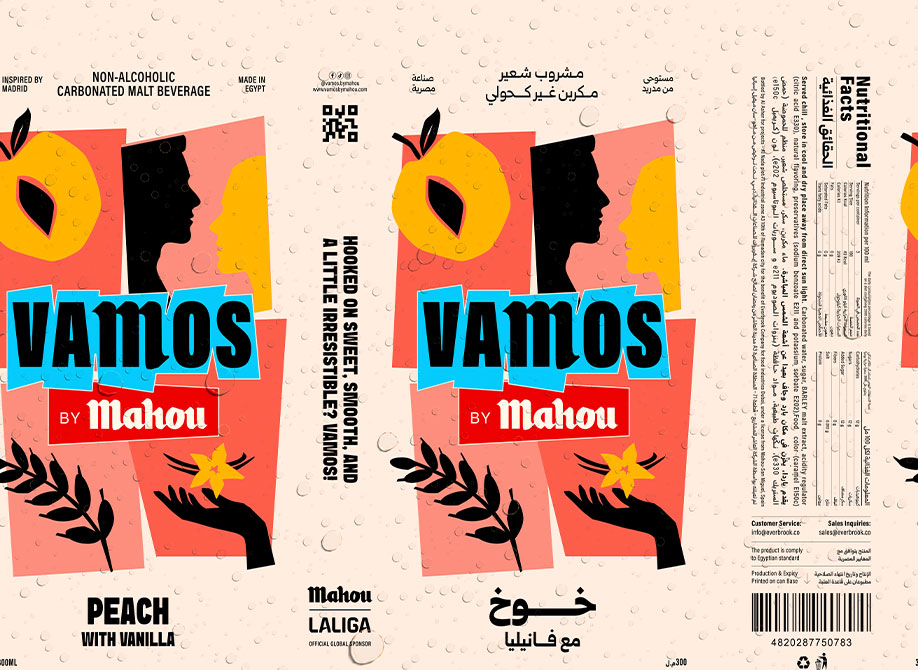
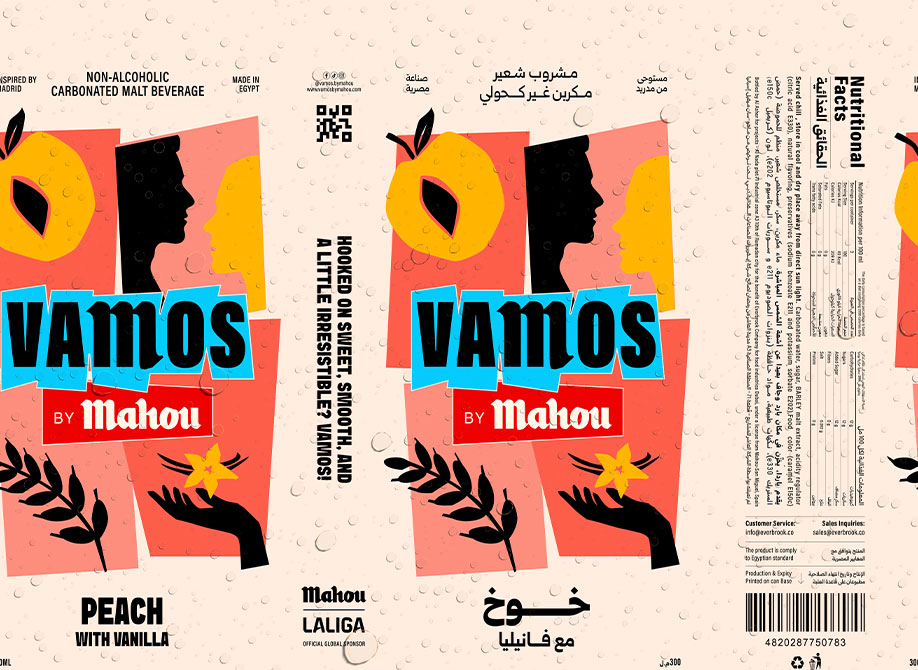
omer presentation 18 nov

diff --git a/index.html b/index.html
@@ -59,7 +59,7 @@
             <div class="hero-shape"></div>
             <div class="hero-animation">
               <div class="hero-product-box">
-                <div class="product-img animated-products animated-products-left">
+                <div class="product-img animated-products">
                   <img src="images/can-mask.png" class="mw-100" alt="">
                   <div class="product-labels">
                     <img src="images/peach-label.jpg" alt="">
@@ -68,7 +68,7 @@
                 </div>
               </div>
               <div class="hero-product-box">
-                <div class="product-img animated-products animated-products-left">
+                <div class="product-img animated-products">
                   <img src="images/can-mask.png" class="mw-100" alt="">
                   <div class="product-labels">
                     <img src="images/malt-label.jpg" alt="">
@@ -77,7 +77,7 @@
                 </div>
               </div>
               <div class="hero-product-box">
-                <div class="product-img animated-products animated-products-right">
+                <div class="product-img animated-products">
                   <img src="images/can-mask.png" class="mw-100" alt="">
                   <div class="product-labels">
                     <img src="images/pinapple-label.jpg" alt="">
@@ -86,7 +86,7 @@
                 </div>
               </div>
               <div class="hero-product-box">
-                <div class="product-img animated-products animated-products-right">
+                <div class="product-img animated-products">
                   <img src="images/can-mask.png" class="mw-100" alt="">
                   <div class="product-labels">
                     <img src="images/apple-label.jpg" alt="">
@@ -130,7 +130,7 @@
             <div class="product-box" style="background-image:url(images/peach-bg.png);">
               <div class="product-name">Peach <span>with Vanilla</span></div>
               <div class="product-img animated-products">
-                <img src="images/can-mask-pc.png" class="mw-100" alt="">
+                <img src="images/can-mask.png" class="mw-100" alt="">
                 <div class="product-labels">
                   <img src="images/peach-label.jpg" alt="">
                   <img src="images/peach-label.jpg" alt="">
@@ -143,7 +143,7 @@
             <div class="product-box" style="background-image:url(images/malt-bg.png);">
               <div class="product-name">Toasted <span>Malt</span></div>
               <div class="product-img animated-products">
-                <img src="images/can-mask-pc.png" class="mw-100" alt="">
+                <img src="images/can-mask.png" class="mw-100" alt="">
                 <div class="product-labels">
                   <img src="images/malt-label.jpg" alt="">
                   <img src="images/malt-label.jpg" alt="">
@@ -156,7 +156,7 @@
             <div class="product-box" style="background-image:url(images/pinapple-bg.png);">
               <div class="product-name">Pineapple <span>with caramel</span></div>
               <div class="product-img animated-products">
-                <img src="images/can-mask-pc.png" class="mw-100" alt="">
+                <img src="images/can-mask.png" class="mw-100" alt="">
                 <div class="product-labels">
                   <img src="images/pinapple-label.jpg" alt="">
                   <img src="images/pinapple-label.jpg" alt="">
@@ -169,7 +169,7 @@
             <div class="product-box" style="background-image:url(images/apple-bg.png);">
               <div class="product-name">Apple <span>with Cinnamon</span></div>
               <div class="product-img animated-products">
-                <img src="images/can-mask-pc.png" class="mw-100" alt="">
+                <img src="images/can-mask.png" class="mw-100" alt="">
                 <div class="product-labels">
                   <img src="images/apple-label.jpg" alt="">
                   <img src="images/apple-label.jpg" alt="">
@@ -237,165 +237,137 @@
 <script src="https://cdn.jsdelivr.net/npm/gsap@3.13.0/dist/gsap.min.js"></script>
 <script src="https://cdn.jsdelivr.net/npm/gsap@3.13.0/dist/ScrollTrigger.min.js"></script>
 <script src="https://cdn.jsdelivr.net/npm/gsap@3.13.0/dist/SplitText.min.js"></script>
+
 <script>
-  document.addEventListener("DOMContentLoaded", (event) => {
-    gsap.registerPlugin(SplitText)
-    let split = SplitText.create(".hero-title", {
-      type:"words"
+  // 🔹 Stop the browser from restoring scroll position after refresh
+  if ('scrollRestoration' in history) {
+    history.scrollRestoration = 'manual';
+    // If you want to FORCE always starting at the top after full reload,
+    // uncomment the next line:
+    // window.scrollTo(0, 0);
+  }
+
+  // 🔹 SplitText hero title animation
+  document.addEventListener("DOMContentLoaded", () => {
+    gsap.registerPlugin(SplitText);
+
+    const split = SplitText.create(".hero-title", {
+      type: "words"
     });
+
     gsap.from(split.words, {
-      opacity:0,
-      y:20,
-      stagger:0.05,
-      ease:"back.out(1.7)",
+      opacity: 0,
+      y: 20,
+      stagger: 0.05,
+      ease: "back.out(1.7)"
     });
   });
-</script>
-<!-- <script>
-  document.addEventListener("DOMContentLoaded", (event) => {
-    gsap.registerPlugin(ScrollTrigger)
-    let hero = document.querySelector(".hero");
-    let viewportWidth = window.innerWidth;
 
-    let tl = gsap.timeline({
+  // 🔹 Hero product boxes ScrollTrigger animation
+  document.addEventListener("DOMContentLoaded", () => {
+    gsap.registerPlugin(ScrollTrigger);
+
+    const boxes = gsap.utils.toArray(".hero-product-box");
+    if (!boxes.length) return;
+
+    // --- Edge-aligned layout for 40% width ---
+    const stateLeft = {
+      left: "0%",
+      scale: 1,
+      zIndex: 1,
+      rotationY: 12,
+      opacity: 1,
+      filter: "brightness(.9)"
+    };
+
+    const stateCenter = {
+      left: "30%",
+      scale: 1.1,
+      zIndex: 50,
+      rotationY: 0,
+      opacity: 1,
+      filter: "brightness(1.1)"
+    };
+
+    const stateRight = {
+      left: "60%",
+      scale: 1,
+      zIndex: 2,
+      rotationY: -12,
+      opacity: 1,
+      filter: "brightness(.9)"
+    };
+
+    const stateBack = {
+      left: "30%",
+      scale: 0.7,
+      zIndex: 0,
+      rotationY: 0,
+      opacity: 1,
+      filter: "brightness(.6)"
+    };
+
+    // Initial order
+    gsap.set(boxes[0], stateLeft);
+    gsap.set(boxes[1], stateCenter);
+    gsap.set(boxes[2], stateRight);
+    gsap.set(boxes[3], stateBack);
+
+    // Timeline setup
+    const tl = gsap.timeline({
       scrollTrigger: {
-        trigger: hero,
+        trigger: ".hero",
         start: "top top",
-        end:  () => window.innerHeight * .8 + " 20%",
+        // Use a function so this recomputes on refresh/resize
+        end: () => "+=" + (window.innerHeight * 3),
         scrub: true,
         pin: true,
-        toggleActions: "play none none none",
+        invalidateOnRefresh: true,
         // markers: true
       }
     });
 
-    tl.to(".animated-products-left, .animated-products-right", {
-      duration:300,
-      x: (i, el) => el.classList.contains("animated-products-left") ? -window.innerWidth * .5 : window.innerWidth * .5,
-      stagger:0.2,
-      ease:"power4.out",
-    });
-    tl.to(".animated-products-left .product-labels",{
-      duration:300,
-      x: -viewportWidth*.42,
-      stagger:0.2,
-      ease:"power4.out",
-    },0);
-    tl.to(".animated-products-right .product-labels",{
-      duration:300,
-      x: viewportWidth*.37,
-      stagger:0.2,
-      ease:"power4.out",
-    },0);
-    tl.to(".div1, .div2",{
-      duration:50,
-      opacity:0,
-      y:-30,// > 768 ? -400 : 0
-      stagger:0.2,
-      ease:"power4.out",
-    },0);
-  });
+    // Rotation order: [left, center, right, back]
+    let order = [0, 1, 2, 3];
 
-</script> -->
-<script>
-document.addEventListener("DOMContentLoaded", () => {
-  gsap.registerPlugin(ScrollTrigger);
+    // Each can moves through all positions
+    for (let i = 0; i < 3; i++) {
+      tl
+        .to(boxes[order[1]], { ...stateLeft, duration: 1, ease: "none" })
+        .to(boxes[order[2]], { ...stateCenter, duration: 1, ease: "none" }, "<")
+        .to(boxes[order[0]], { ...stateBack, duration: 1, ease: "none" }, "<")
+        .to(boxes[order[3]], { ...stateRight, duration: 1, ease: "none" }, "<");
 
-  const boxes = gsap.utils.toArray(".hero-product-box");
-
-  // --- Edge-aligned layout for 40% width ---
-  const stateLeft = {
-    left: "0%",        // fully left-aligned
-    scale: 1,
-    zIndex: 1,
-    rotationY: 12,
-    opacity: 1,
-    filter: "brightness(.9)",
-  };
-
-  const stateCenter = {
-    left: "30%",       // center (balanced for 40% width)
-    scale: 1.1,
-    zIndex: 50,
-    rotationY: 0,
-    opacity: 1,
-    filter: "brightness(1.1)",
-  };
-
-  const stateRight = {
-    left: "60%",       // fully right-aligned
-    scale: 1,
-    zIndex: 2,
-    rotationY: -12,
-    opacity: 1,
-    filter: "brightness(.9)",
-  };
-
-  const stateBack = {
-    left: "30%",       // behind center
-    scale: 0.7,
-    zIndex: 0,
-    rotationY: 0,
-    opacity: 1,
-    filter: "brightness(.6)",
-  };
-
-  // Initial order
-  gsap.set(boxes[0], stateLeft);
-  gsap.set(boxes[1], stateCenter);
-  gsap.set(boxes[2], stateRight);
-  gsap.set(boxes[3], stateBack);
-
-  // Timeline setup
-  const tl = gsap.timeline({
-    scrollTrigger: {
-      trigger: ".hero",
-      start: "top top",
-      end: "+=" + (window.innerHeight * 3),
-      scrub: true,
-      pin: true,
-      // markers: true
+      // Rotate the roles for next step
+      order = [order[1], order[2], order[3], order[0]];
     }
+
+    // Refresh on resize so layout + ScrollTrigger stay in sync
+    window.addEventListener("resize", () => ScrollTrigger.refresh());
+
+    // Ensure everything is correct once images/fonts are fully loaded
+    window.addEventListener("load", () => {
+      ScrollTrigger.refresh();
+    });
   });
-
-  // Rotation order: [left, center, right, back]
-  let order = [0, 1, 2, 3];
-
-  // Each can moves through all positions
-  for (let i = 0; i < 3; i++) {
-    tl
-      .to(boxes[order[1]], { ...stateLeft, duration: 1, ease: "none" })
-      .to(boxes[order[2]], { ...stateCenter, duration: 1, ease: "none" }, "<")
-      .to(boxes[order[0]], { ...stateBack, duration: 1, ease: "none" }, "<")
-      .to(boxes[order[3]], { ...stateRight, duration: 1, ease: "none" }, "<");
-
-    // Rotate the roles for next step
-    order = [order[1], order[2], order[3], order[0]];
-  }
-
-  window.addEventListener("resize", () => ScrollTrigger.refresh());
-});
-
-
-
 </script>
 
 
   <!-- Smooth Scrolling -->
-  <script src="https://unpkg.com/lenis@1.3.11/dist/lenis.min.js"></script> 
-  <script>
-    // Initialize Lenis
-    const lenis = new Lenis();
-    // Use requestAnimationFrame to continuously update the scroll
-    function raf(time) {
-      lenis.raf(time);
-      requestAnimationFrame(raf);
-    }
+<script src="https://unpkg.com/lenis@1.3.11/dist/lenis.min.js"></script> 
+<script>
+  // Initialize Lenis
+  const lenis = new Lenis();
+  // Use requestAnimationFrame to continuously update the scroll
+  function raf(time) {
+    lenis.raf(time);
     requestAnimationFrame(raf);
-  </script>
+  }
+  requestAnimationFrame(raf);
+</script>
 
 
-  <script src="include/js/main.js"></script>
+<script src="include/js/main.js"></script>
 
 
 </body>

diff --git a/include/call-styles.css b/include/call-styles.css
@@ -105,7 +105,7 @@ a:hover, a:active, a:focus{text-decoration:none;color:var(--sc);}
 .hero-product-box:last-child{left:33%;z-index:1;} */
 
 .div3 {position: relative;perspective: 900px; /* to help the 3D feel a bit */}
-body:not(.inner-body) .div3{overflow: hidden;padding-top:60px;}
+body:not(.inner-body) .div3{overflow: hidden;padding-top: 42px;}
 
 .hero-animation {position: relative;width: 100%;height: 100%;display: flex;justify-content: center;gap: 10px;padding-top: 56%;}
 .hero-product-box {position: absolute;width: 40%;top: 0;transform-origin: 50% 100%; /* scale from bottom */will-change: transform;}
@@ -124,16 +124,17 @@ body:not(.inner-body) .div3{overflow: hidden;padding-top:60px;}
 /* .First span{color:transparent;-webkit-text-stroke:var(--blue);-webkit-text-stroke-width:3px;} */
 
 
-.hero-cans-con.about-hero-cans{display:block;grid-template-columns: 1fr 50% 1fr;grid-template-rows:repeat(1, auto);gap:30px;z-index:9;margin-top:60px;}
+.hero-cans-con.about-hero-cans{display:block;grid-template-columns:1fr 50% 1fr;grid-template-rows:repeat(1, auto);gap:30px;z-index:9;margin-top:60px;}
 
 
 .products-section{padding:120px 0;}
+.products-section .products-section-btn a{font-size:48px;padding:36px 30px 24px;}
 .products-section .row{flex-direction:row-reverse;}
 .products-section-txt{text-align:center;max-width:660px;margin:auto;}
 .line1{text-transform:uppercase;}
 .line2{font-size:30px;font-family:var(--font-header);text-transform:uppercase;margin-top:10px;margin-bottom:10px;line-height:1;}
 .line3{font-size:54px;font-family:var(--font-header);text-transform:uppercase;margin-top:10px;margin-bottom:10px;line-height:.9;color:var(--blue);}
-.products-section-btn a{clip-path:polygon(0 21%, 93% 0, 100% 100%, 0% 100%);background:var(--blue);color:#000;padding: 30px 24px 15px;font-size:30px;font-family:var(--font-header);text-transform:uppercase;display:inline-block;transition:all 0.3s ease 0s;margin-top: 20px;}
+.products-section-btn a{clip-path:polygon(0 21%, 93% 0, 100% 100%, 0% 100%);background:var(--blue);color:#000;padding: 24px 18px 12px;font-size: 28px;font-family:var(--font-header);text-transform:uppercase;display:inline-block;transition:all 0.3s ease 0s;margin-top: 20px;}
 .products-section-btn a:hover{background:var(--red);color:#fff;clip-path:polygon(3% 5%, 100% 15%, 100% 100%, 0% 97%);}
 .line4{font-size:20px;font-family:var(--font-semibold);text-transform:uppercase;max-width:300px;margin:auto;}
 .line4 span{font-size:28px;font-family:var(--font-header);}
@@ -151,7 +152,7 @@ body:not(.inner-body) .div3{overflow: hidden;padding-top:60px;}
 .animated-products{overflow:hidden;position: relative;margin: 0 15%;-webkit-mask-image: url(../images/can-mask-mask.png);mask-image: url(../images/can-mask-mask.png);-webkit-mask-size: contain;mask-size: contain;-webkit-mask-position: center;mask-position: center;-webkit-mask-repeat: no-repeat;mask-repeat: no-repeat;}
 .animated-products>img{z-index:9;position: relative;width: 100%;}
 .product-labels{position:absolute;bottom:0;top:0;left: 0;/* transform:translateX(-50%); */display:flex;gap:0;z-index:1;}
-.animated-products-right .product-labels{left:auto;right:-270%;}
+/* .animated-products-right .product-labels{left:auto;right:-270%;} */
 .center .animated-products .product-labels{animation:slide-left 40s linear infinite;}
 /* .product-box::after{content:attr(data-bg);position:absolute;inset:0;transform:scaleX(.1);transition-duration:.5s;transition-delay:.3s;z-index:-1;transform-origin:center;}
 .center .product-box::after{transform:scaleX(1);}
@@ -357,6 +358,9 @@ select:-webkit-autofill:focus {background-color:#0102021A !important;-webkit-box
 .cta-title{font-size:60px;}
 .cta-social ul img{max-height:unset;}
 :root{--dot-size: 30px;}
+
+body:not(.inner-body) .div3{padding-top:60px;}
+
 
 }
 
